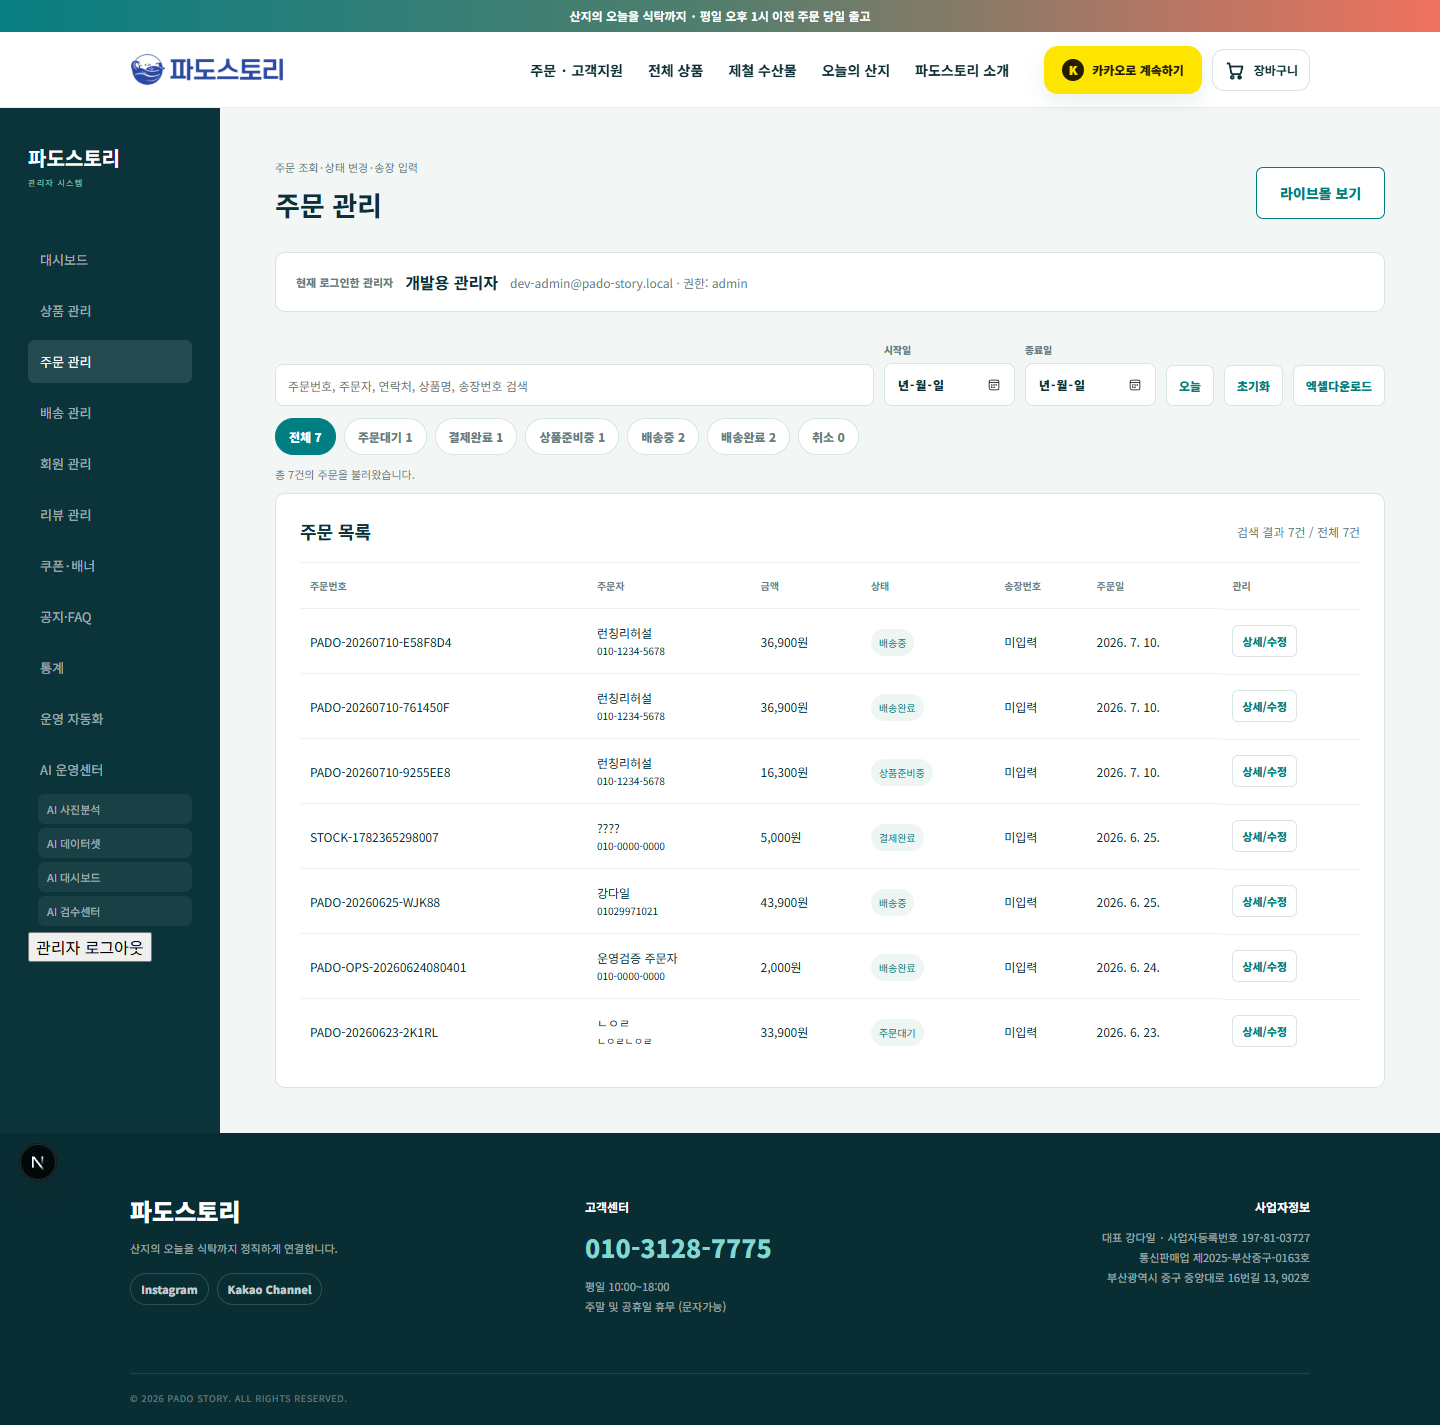
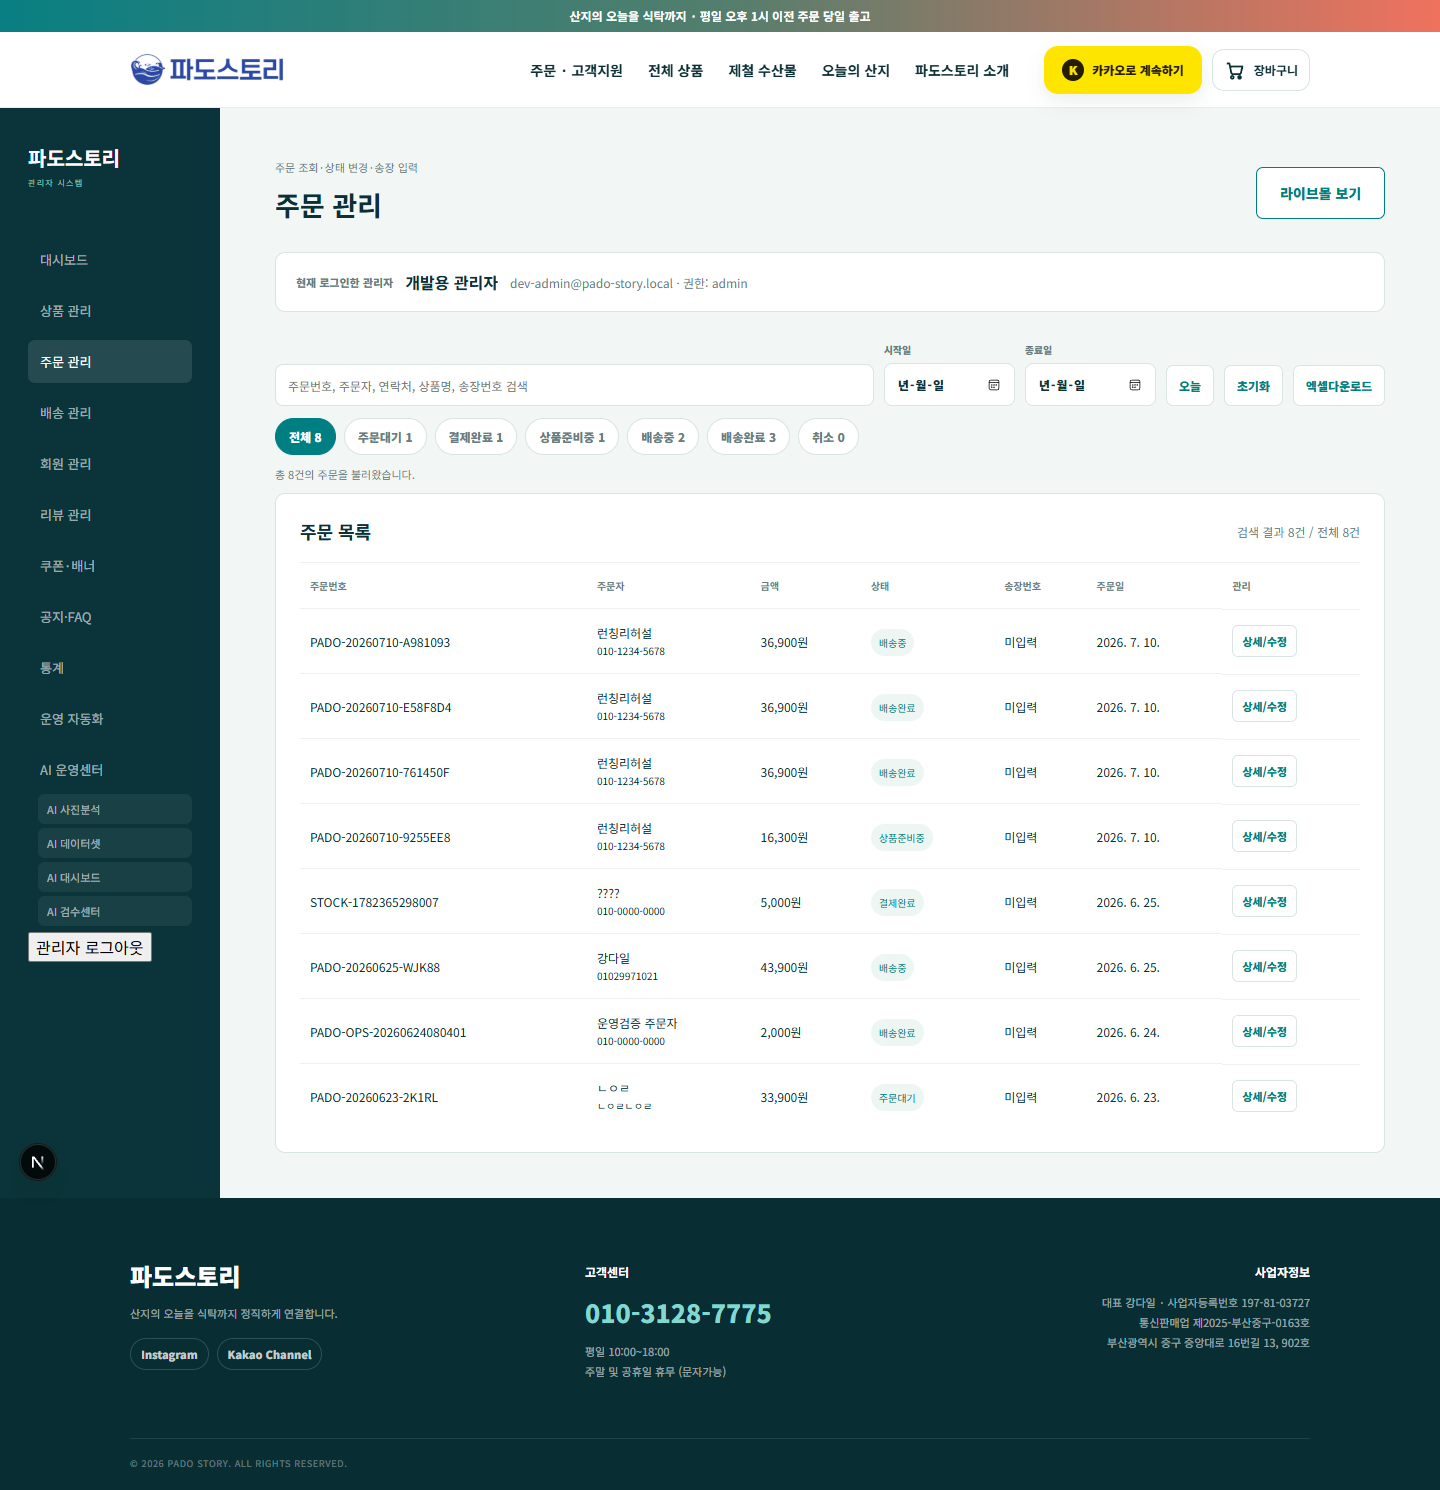
Tighten production launch blocker checks

diff --git a/PHASE10_PRODUCTION_LAUNCH.md b/PHASE10_PRODUCTION_LAUNCH.md
@@ -419,3 +419,44 @@ External console confirmations still required even when the automated score is G
 3. Toss live/test payment approval and refund rehearsal completed.
 4. Kakao Developers and Supabase Auth redirect URLs match the production domain.
 5. Supabase Storage bucket policy confirmed.
+
+## 12. 2026-07-10 Open Blocker Removal Status
+
+This pass intentionally did not add customer-facing features, AI features, page design changes, or product-detail behavior changes. It only tightened launch-blocker verification.
+
+### Automated verification added or strengthened
+
+- `pnpm run verify:production-launch` now checks Toss duplicate approval guard, Toss failure stock rollback, Toss inventory logs, refund stock restoration, Kakao callback profile creation, admin role SQL, Supabase Storage upload helper, admin upload route protection, existing detail-page JSON fields, existing detail-page admin editor support, existing detail-page customer renderer, order status constraint coverage, and Storage verification SQL coverage.
+- `supabase/phase10-production-verification.sql` now checks:
+  - Operation automation tables.
+  - Indexes, RLS policies, triggers, and foreign keys.
+  - `products.detail_json`.
+  - `orders_status_check` values including `delivery_ready`, `return_requested`, `returned`, and `refunded`.
+  - Existing detail-page JSON shape using `detailDisplayMode` and `legacyDetailImages`.
+  - Supabase Storage bucket and storage object policies for the production product image bucket.
+
+### Latest local readiness result
+
+- `pnpm run verify:production-launch`: `Conditional Go`, `81%`.
+- `pnpm run rehearsal:launch`: `No-Go`, `53%`.
+- The remaining failures are not design or feature gaps. They are external-console or production-DB application blockers:
+  - Production `NEXT_PUBLIC_SITE_URL` is not available in the local production-verification environment.
+  - Kakao production key and redirect settings are not available in the local production-verification environment.
+  - Local `.env.local` still has development admin login enabled for testing.
+  - Local image storage mode is still `local`; production must use Supabase Storage.
+  - Connected Supabase DB has not yet applied the operation automation migration, so `delivery_ready` and `review_requests` fail in rehearsal.
+  - Toss real payment approval/refund still requires Toss credentials, dashboard URL registration, and a refundable transaction.
+
+### Go criteria for the next pass
+
+Run after the external console items are completed:
+
+```bash
+pnpm run verify:production-launch -- --url=https://YOUR_DOMAIN --strict=true
+pnpm run rehearsal:launch
+```
+
+Expected before public opening:
+
+- `verify:production-launch`: `Go`, `95%+`.
+- `rehearsal:launch`: `Conditional Go` or `Go`, `90%+`, with no Critical issues.

diff --git a/BLOCKERS.md b/BLOCKERS.md
@@ -227,3 +227,18 @@ alter table products add column if not exists detail_json jsonb not null default
   - Wando live abalone detail page PNG/JPG/WebP files
   - Tongyeong sea eel, rock oyster, octopus, mackerel, hairtail, abalone porridge, abalone seaweed soup, and other product detail page image files
 - The upload, ordering, preview, save, and customer detail rendering pipeline is ready. Actual product application can proceed as soon as the image files are provided.
+
+## 2026-07-10 Open Essential Blockers
+
+- Critical: Toss real payment approval/refund rehearsal is still blocked by external Toss credentials, dashboard URL registration, and a refundable real/test transaction.
+- Critical: Production URL verification is still blocked until `NEXT_PUBLIC_SITE_URL` is set to the final HTTPS domain and the deployed URL is available.
+- Critical: Kakao production login verification is still blocked until `NEXT_PUBLIC_KAKAO_CLIENT_ID`, Kakao Developers redirect URI, and Supabase Auth redirect URL are configured for the production domain.
+- Critical: Production must confirm `DEV_ADMIN_LOGIN_ENABLED=false` in Vercel Production. Local `.env.local` currently remains enabled for development testing.
+- Major: Connected Supabase DB still needs the operation automation migration applied. Current rehearsal shows `orders_status_check` does not allow `delivery_ready`, and `review_requests` is missing.
+- Major: Supabase Storage production readiness still needs bucket creation/policy confirmation and Vercel env values:
+  - `PADO_PRODUCT_IMAGE_STORAGE=supabase`
+  - `SUPABASE_PRODUCT_IMAGE_BUCKET=product-images` or the actual production bucket name
+- Major: Notification provider can remain `mock` for a soft internal rehearsal, but public launch should either accept mock notifications explicitly or configure Kakao Alimtalk/SMS/Email provider credentials.
+- Automated preparation completed:
+  - `verify:production-launch` now checks Toss duplicate approval, Toss failure rollback, refund stock restore, Kakao profile callback, admin role SQL, Storage upload path, existing detail JSON path, order status coverage, and production verification SQL coverage.
+  - `supabase/phase10-production-verification.sql` now checks operation tables, indexes, policies, triggers, foreign keys, order status constraint values, `products.detail_json`, existing detail-page JSON structure, and Storage bucket/policies.

diff --git a/TEST_REPORT.md b/TEST_REPORT.md
@@ -2269,3 +2269,29 @@
   - `pnpm run build`: passed
 - Note:
   - The actual CEO-made abalone detail page source images were not present in the repository, so the production abalone product was not modified with placeholder detail pages.
+
+## 2026-07-10 Open Essential Blocker Removal Verification
+
+- Commands:
+  - `pnpm run lint`: passed
+  - `pnpm run build`: passed
+  - `pnpm run verify:operations`: passed
+  - `pnpm run verify:admin`: passed
+  - `pnpm run verify:production-launch`: passed as non-strict
+  - `pnpm run rehearsal:launch`: script passed
+  - `pnpm run dev:ensure`: passed
+- Production launch verifier:
+  - Go/No-Go: `Conditional Go`
+  - Readiness: `81%`
+  - Production readiness: `81%`
+  - Major passing areas: operation migration source, RLS/index/FK/trigger coverage, order status source coverage, Toss confirm/refund/webhook source readiness, Kakao callback profile creation source, Storage upload source, existing detail JSON source, robots/sitemap source.
+  - Remaining local/env failures: missing production `NEXT_PUBLIC_SITE_URL`, missing Kakao production key, local `DEV_ADMIN_LOGIN_ENABLED=true`, local image storage mode `local`, mock notification provider, missing live production URL remote checks.
+- Launch readiness rehearsal:
+  - Report: `LAUNCH_READINESS_REPORT.md`
+  - JSON: `reports/launch-readiness/launch-readiness-latest.json`
+  - Success rate: `53%`
+  - Go/No-Go: `No-Go`
+  - Rehearsal order: `PADO-20260710-A981093`
+  - Product: `tongyeong-sea-eel`
+  - Passed: product list, product detail, cart, checkout form, order creation, admin order lookup, status changes through shipped/delivered.
+  - Blocked/partial: Kakao signup/login, Toss real approval/refund, connected DB `delivery_ready`, connected DB `review_requests`, my page real customer order history.

diff --git a/LAUNCH_READINESS_REPORT.md b/LAUNCH_READINESS_REPORT.md
@@ -1,10 +1,10 @@
 # Launch Readiness Report
 
-- 생성 시각: 2026-07-10T05:39:00.952Z
+- 생성 시각: 2026-07-10T06:41:22.824Z
 - 테스트 성공률: 53%
 - Go / No-Go: No-Go
 - 실제 런칭 가능 여부: 불가
-- 주문번호: PADO-20260710-E58F8D4
+- 주문번호: PADO-20260710-A981093
 
 ## 단계별 결과
 
@@ -18,7 +18,7 @@
 | ⑥ 주문서 작성 | SUCCESS | 필수 배송지 입력 완료 | screenshots/launch-readiness/06-checkout.png |
 | ⑦ Toss 결제 | BLOCKED | 실제 Toss 결제창/승인/환불은 외부 실결제 권한 필요. 주문은 pending으로 생성됨. | - |
 | ⑧ 주문 완료 | PARTIAL | 결제 전 주문 생성 및 주문 확인 화면 표시 | screenshots/launch-readiness/08-order-complete.png |
-| ⑨ 관리자 주문 확인 | SUCCESS | PADO-20260710-E58F8D4 | screenshots/launch-readiness/09-admin-orders.png |
+| ⑨ 관리자 주문 확인 | SUCCESS | PADO-20260710-A981093 | screenshots/launch-readiness/09-admin-orders.png |
 | ⑩ 주문 상태 변경 | SUCCESS | pending -> paid -> preparing | - |
 | ⑪ 송장 입력 | PARTIAL | delivery_ready 전환 실패. shipped 단계에서 송장 입력 재시도: 주문 상태 변경 실패: {"status":"delivery_ready","carrier":"CJ대한통운","trackingNumber":"123456789012"} status=500 body={"ok":false,"message":"new row for relation \"orders\" violates check constraint \"orders_status_check\""} | - |
 | ⑫ 배송중 | SUCCESS | preparing -> shipped | screenshots/launch-readiness/12-admin-shipped.png |
@@ -37,5 +37,5 @@
 ## 검증 메모
 
 - 리허설 상품: 통영 바다장어 (tongyeong-sea-eel)
-- 리허설 주문: PADO-20260710-E58F8D4
+- 리허설 주문: PADO-20260710-A981093
 - 실결제 승인 대신 관리자 상태 변경으로 결제완료 이후 운영 흐름을 검증했습니다.

diff --git a/DEPLOY_CHECKLIST.md b/DEPLOY_CHECKLIST.md
@@ -186,3 +186,23 @@
 - [ ] Kakao production login redirect tested
 - [ ] Supabase Storage product upload tested
 - [ ] Domain, SSL, robots, sitemap, metadata confirmed on production URL
+
+## 2026-07-10 Open Essential Blocker Checklist
+
+- [x] `verify:production-launch` checks Toss duplicate approval guard.
+- [x] `verify:production-launch` checks Toss failure rollback and payment inventory logs.
+- [x] `verify:production-launch` checks Toss refund stock restoration.
+- [x] `verify:production-launch` checks Kakao/Supabase callback profile creation source.
+- [x] `verify:production-launch` checks Supabase Storage upload source and admin upload route.
+- [x] `verify:production-launch` checks existing detail-page JSON source and renderer.
+- [x] `phase10-production-verification.sql` checks operation tables, order status constraint, `products.detail_json`, existing detail JSON sample, and Storage bucket/policies.
+- [ ] Enter final production `NEXT_PUBLIC_SITE_URL` in Vercel Production.
+- [ ] Enter final `NEXT_PUBLIC_KAKAO_CLIENT_ID` in Vercel Production.
+- [ ] Confirm `DEV_ADMIN_LOGIN_ENABLED=false` in Vercel Production.
+- [ ] Set `PADO_PRODUCT_IMAGE_STORAGE=supabase` and `SUPABASE_PRODUCT_IMAGE_BUCKET`.
+- [ ] Apply `supabase/migrations/202607060400_operation_automation.sql` to production Supabase.
+- [ ] Run `supabase/phase10-production-verification.sql` in the production Supabase SQL Editor.
+- [ ] Register Kakao/Supabase/Toss redirect URLs using the final production domain.
+- [ ] Run Toss approval/refund rehearsal with a refundable transaction.
+- [ ] Run `pnpm run verify:production-launch -- --url=https://YOUR_DOMAIN --strict=true`.
+- [ ] Run `pnpm run rehearsal:launch` and confirm `90%+`, Critical `0`.

diff --git a/WORKLOG.md b/WORKLOG.md
@@ -2034,3 +2034,17 @@
   - `pnpm run verify:detail-template`: passed
   - `pnpm run verify:admin`: passed
   - `pnpm run build`: passed
+
+## 2026-07-10 Open Essential Blocker Removal
+
+- Scope was limited to launch blockers only. No AI feature, design, main page, or product-detail feature changes were made.
+- Strengthened `pnpm run verify:production-launch` to cover Toss duplicate approval guard, Toss failure stock rollback, payment inventory logs, refund stock restoration, webhook operation logging, Kakao callback profile creation, admin role SQL, Supabase Storage upload path, existing detail-page JSON path, and operation order status constraint coverage.
+- Expanded `supabase/phase10-production-verification.sql` with checks for `orders_status_check`, `products.detail_json`, existing detail-page JSON sample shape, and Supabase Storage bucket/policies.
+- Latest automated status:
+  - `pnpm run verify:production-launch`: passed as non-strict, `Conditional Go`, readiness `81%`.
+  - `pnpm run rehearsal:launch`: script passed, launch result `No-Go`, success rate `53%`.
+- Latest rehearsal order:
+  - `PADO-20260710-A981093`
+  - Product: `tongyeong-sea-eel`
+- Internal flows that passed in rehearsal: product list, product detail, cart, checkout form, order creation, admin order lookup, admin status updates through shipped/delivered.
+- Remaining blockers are external console or production DB application items: Toss real approval/refund, Kakao production login redirect, Vercel Production env confirmation, Supabase operation migration application, Supabase Storage bucket/policy confirmation, and Production URL SSL/robots/sitemap/metadata check.

diff --git a/ROADMAP.md b/ROADMAP.md
@@ -600,3 +600,17 @@ Next launch work:
 2. Repeat upload for Tongyeong sea eel, rock oyster, octopus, mackerel, hairtail, abalone porridge, abalone seaweed soup, and other registered products.
 3. Re-run product detail captures for PC, tablet, and mobile after each real detail page image batch is applied.
 4. Confirm image file size and mobile loading performance before production launch.
+
+### Open Essential Blocker Priority
+
+Current automated status:
+- `verify:production-launch`: Conditional Go, 81%.
+- `rehearsal:launch`: No-Go, 53%.
+
+Next priority before launch:
+1. Apply operation automation migration to production Supabase and run `supabase/phase10-production-verification.sql`.
+2. Set Vercel Production env values, especially production site URL, Kakao key, Storage mode/bucket, and `DEV_ADMIN_LOGIN_ENABLED=false`.
+3. Register Kakao/Supabase/Toss redirect URLs against the final production domain.
+4. Confirm Supabase Storage bucket policy and production admin image upload.
+5. Run Toss payment approval/refund rehearsal with a refundable transaction.
+6. Re-run `pnpm run verify:production-launch -- --url=https://YOUR_DOMAIN --strict=true` and `pnpm run rehearsal:launch`.
